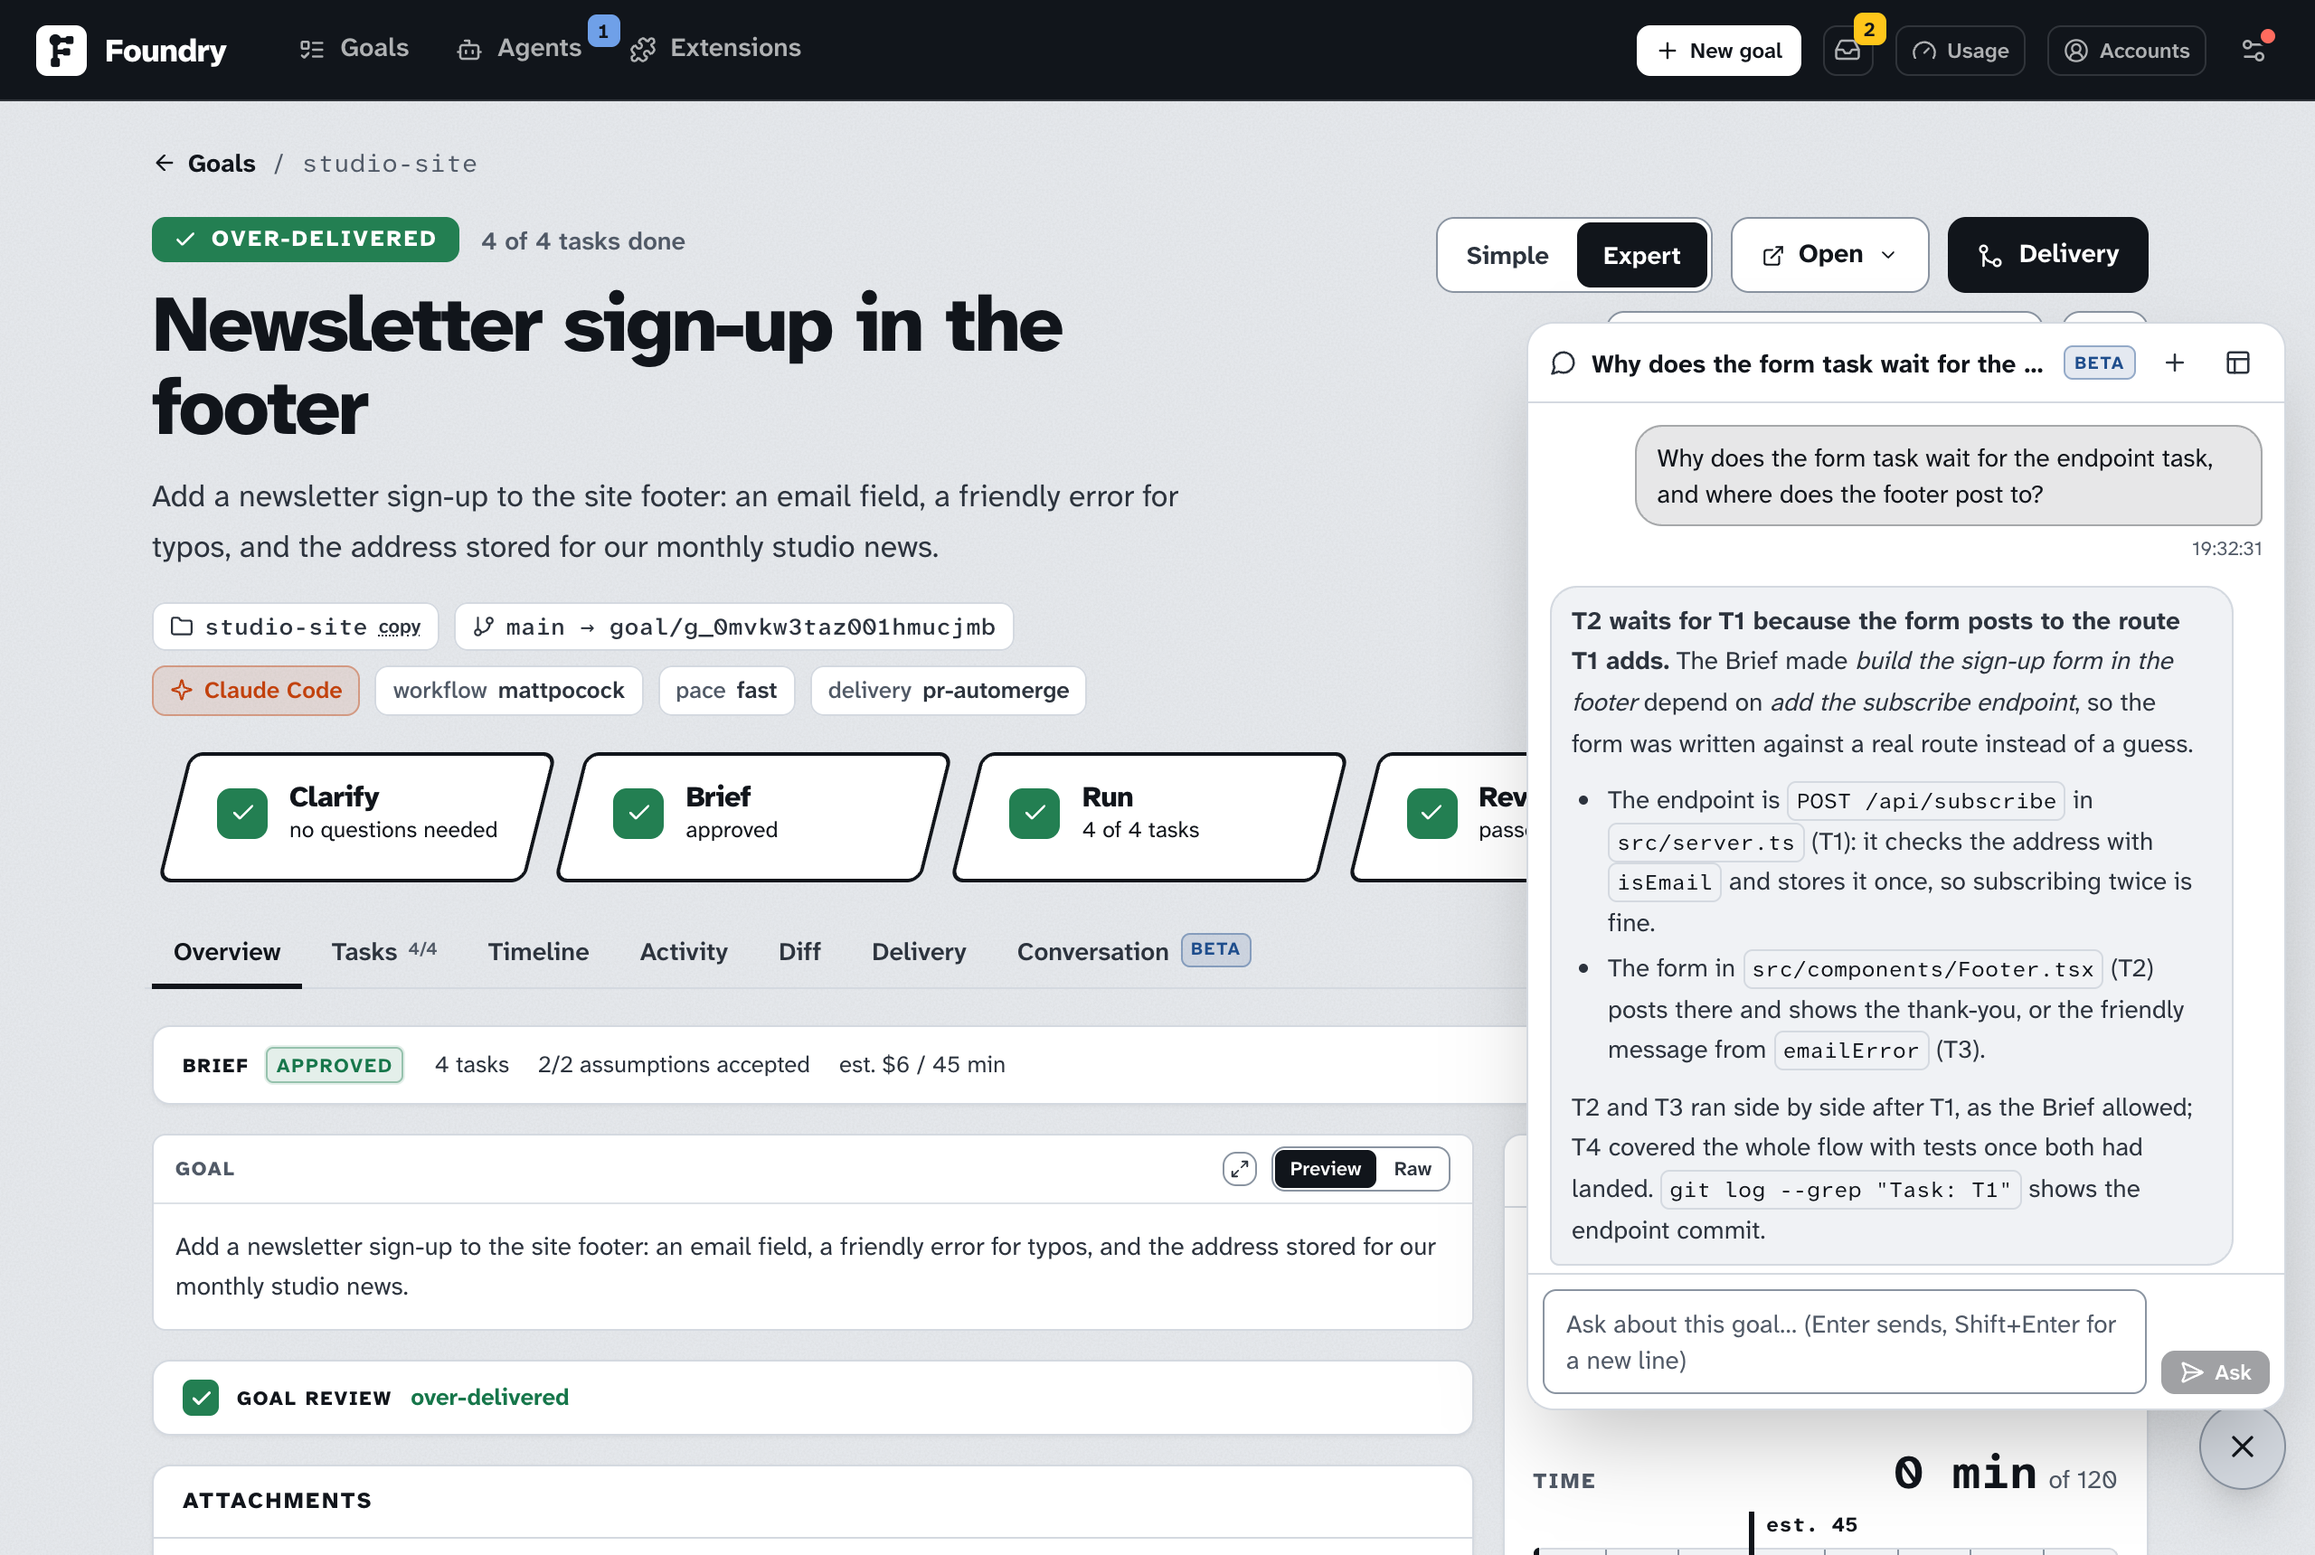
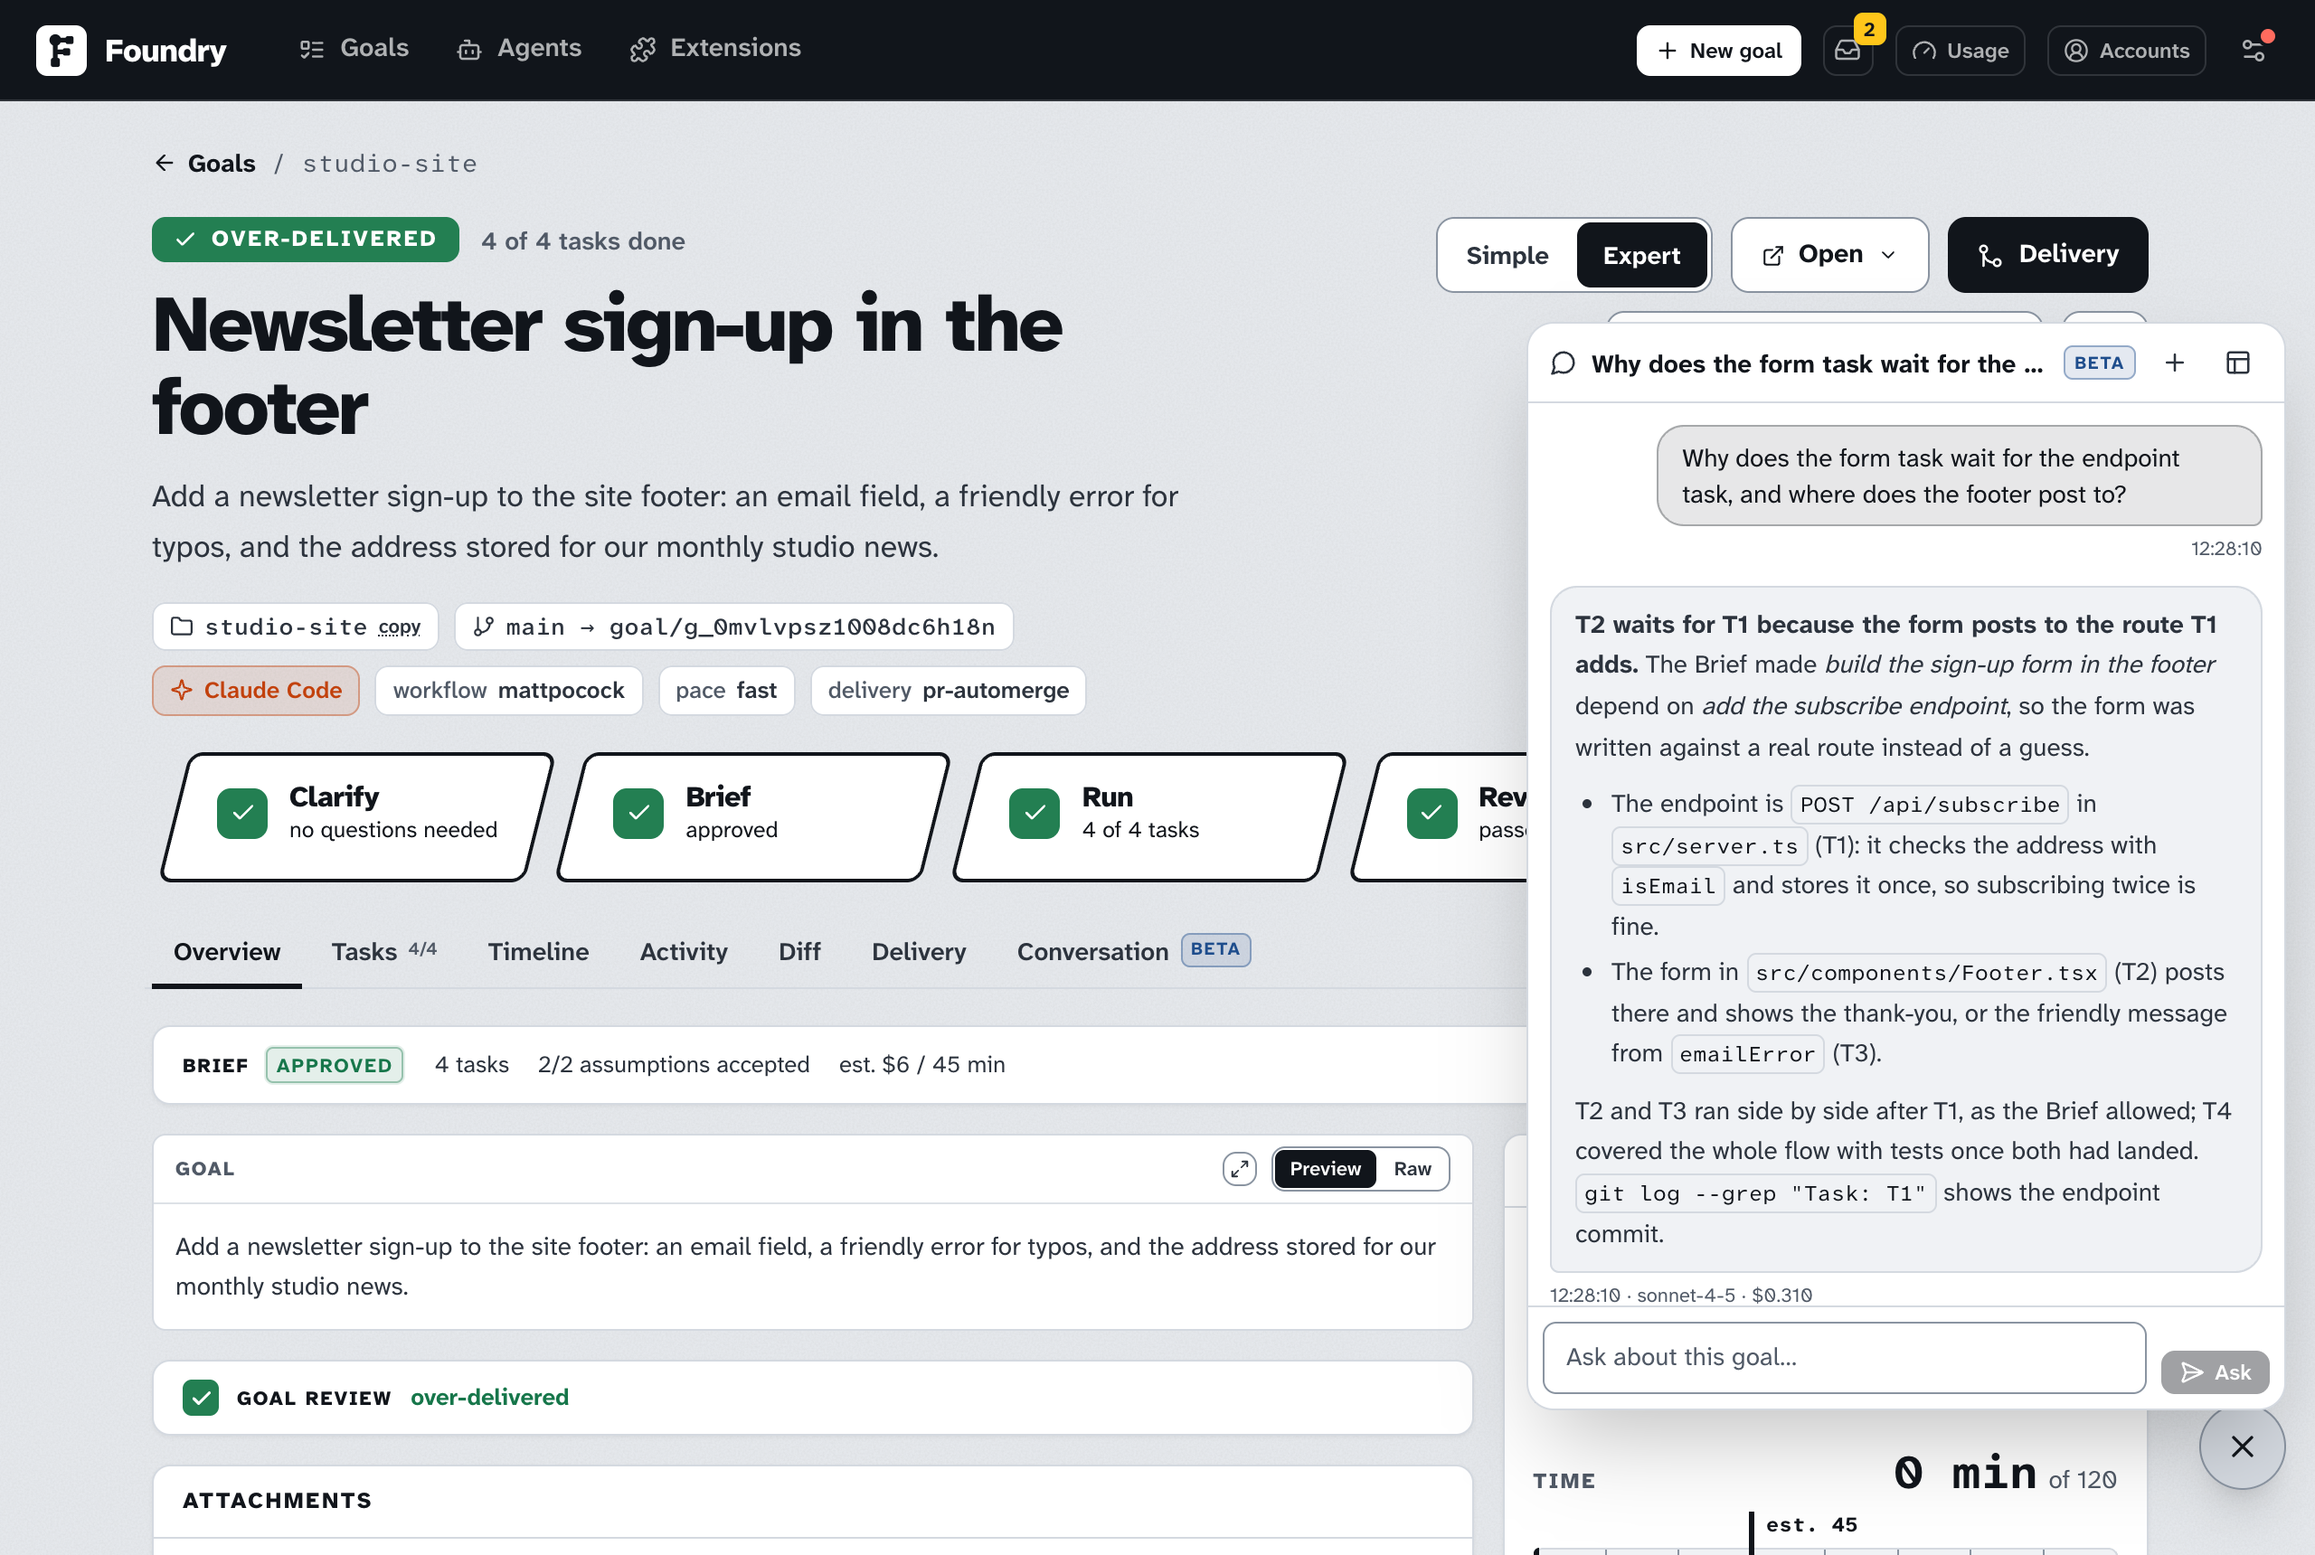
docs(guide): the Conversation pictures start at the first question
The thread opens at its newest message, which is right for a reader coming back but wrong for a picture; the screenshot script scrolls the thread to the top for the tab shot and the bubble shot, and both pictures are retaken with the column layout.

diff --git a/scripts/screenshots.ts b/scripts/screenshots.ts
@@ -191,10 +191,13 @@ try {
   // Conversation (ADR-0073), a beta feature: switched on for these two shots only, so no other page shows the bubble
   await seedConversation(demo.engine, g.done!);
   await demo.engine.updateSettings({ beta: { conversation: true } });
-  await shot('goal-conversation', `/goals/${g.done}#conversation`, undefined, 760);
+  // the thread opens at its newest message; the pictures show it from the first question
+  const fromTheTop = () => page.evaluate(() => document.querySelectorAll<HTMLElement>('.overflow-auto').forEach((el) => (el.scrollTop = 0)));
+  await shot('goal-conversation', `/goals/${g.done}#conversation`, fromTheTop, 760);
   await shot('conversation-bubble', `/goals/${g.done}#overview`, async () => {
     await page.getByRole('button', { name: 'Ask about this goal' }).click();
     await page.waitForTimeout(600);
+    await fromTheTop();
   });
   await demo.engine.updateSettings({ beta: { conversation: false } });
   // the demo's sessions end in milliseconds: the Timeline shows a goal of an afternoon instead, a delegated goal in it
